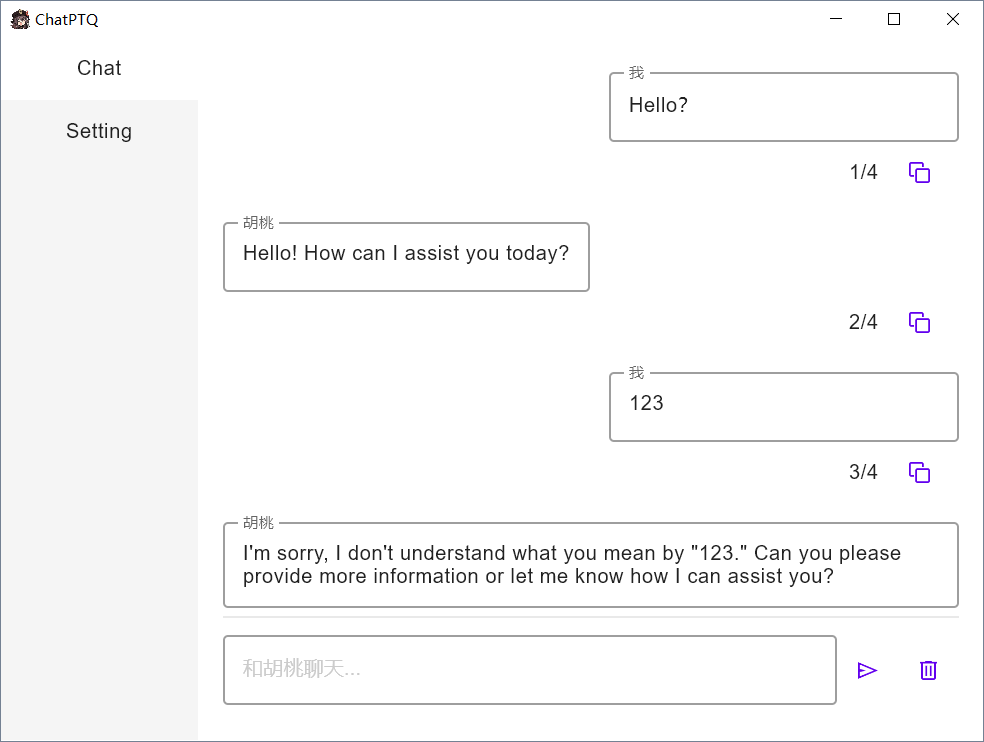
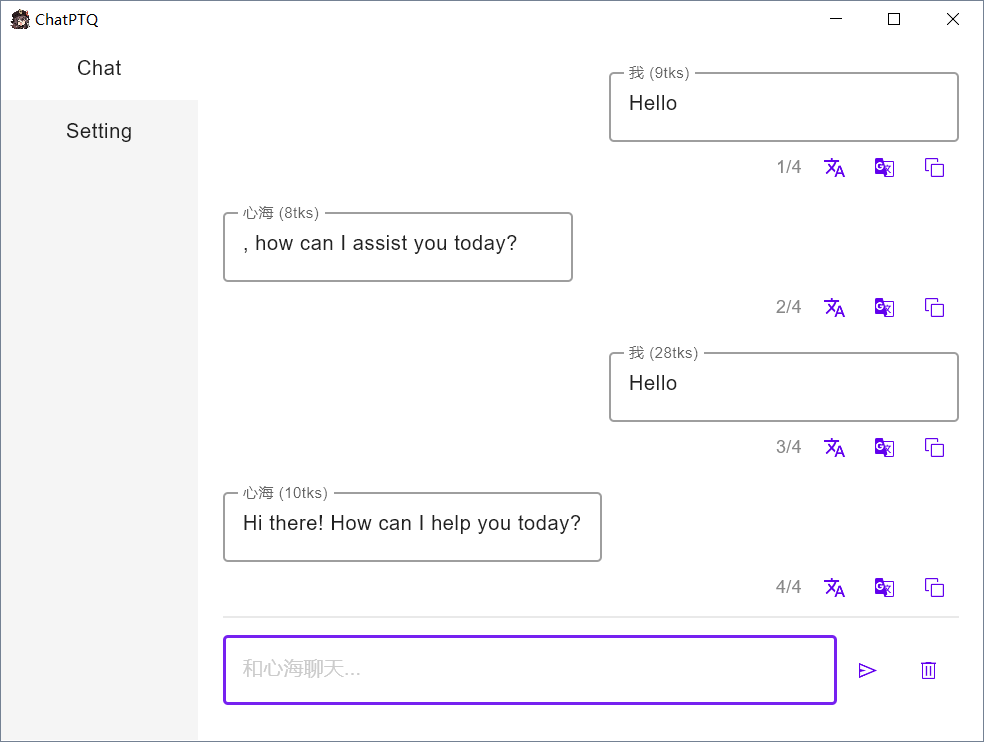
update readme 1.1.0

diff --git a/README.md b/README.md
@@ -1,4 +1,4 @@
-# ChatPTQ
+# ChatPTQ V1.1.0
  - A (Windows) desktop ChatGPT app for personal quick use
  - Compose Desktop App
  - [个人主页](https://juejin.cn/user/800859313671719)
@@ -23,6 +23,8 @@
   * 暂不支持自动系统代理，只能手动填入系统代理，具体在`设置-网络和Internet-代理-手动设置代理`中可以找到ip和端口
 * 请求设置：
   * 自行填入ApiKey
+  * 余量查询：点击可查询总额度、使用量（只能查询最近100天）、过期时间
+    * 请不要频繁查询
 * 开机启动
   * 暂不支持
 
@@ -34,7 +36,13 @@
   * 快捷发送：长按Enter0.5秒
 * 清屏：垃圾桶图标
   * 请注意聊天长度，上下文记忆需要回传所有历史聊天消息，因此发的请求越多token花费越多，请自行把控token的消耗，程序并未设限
-
+* 快捷翻译：
+  * 文A图标：中译英
+  * G文图标：英译中
+* token消耗：
+  * 名字后面的tks是tokens的缩写，代表token消耗情况
+  * GPT回复的token消耗仅为本条回复的消耗
+  * “我”发送的token消耗为我本次发送的内容蕴含的消耗，即包括了上下文的消耗
 
 ## Project
 
